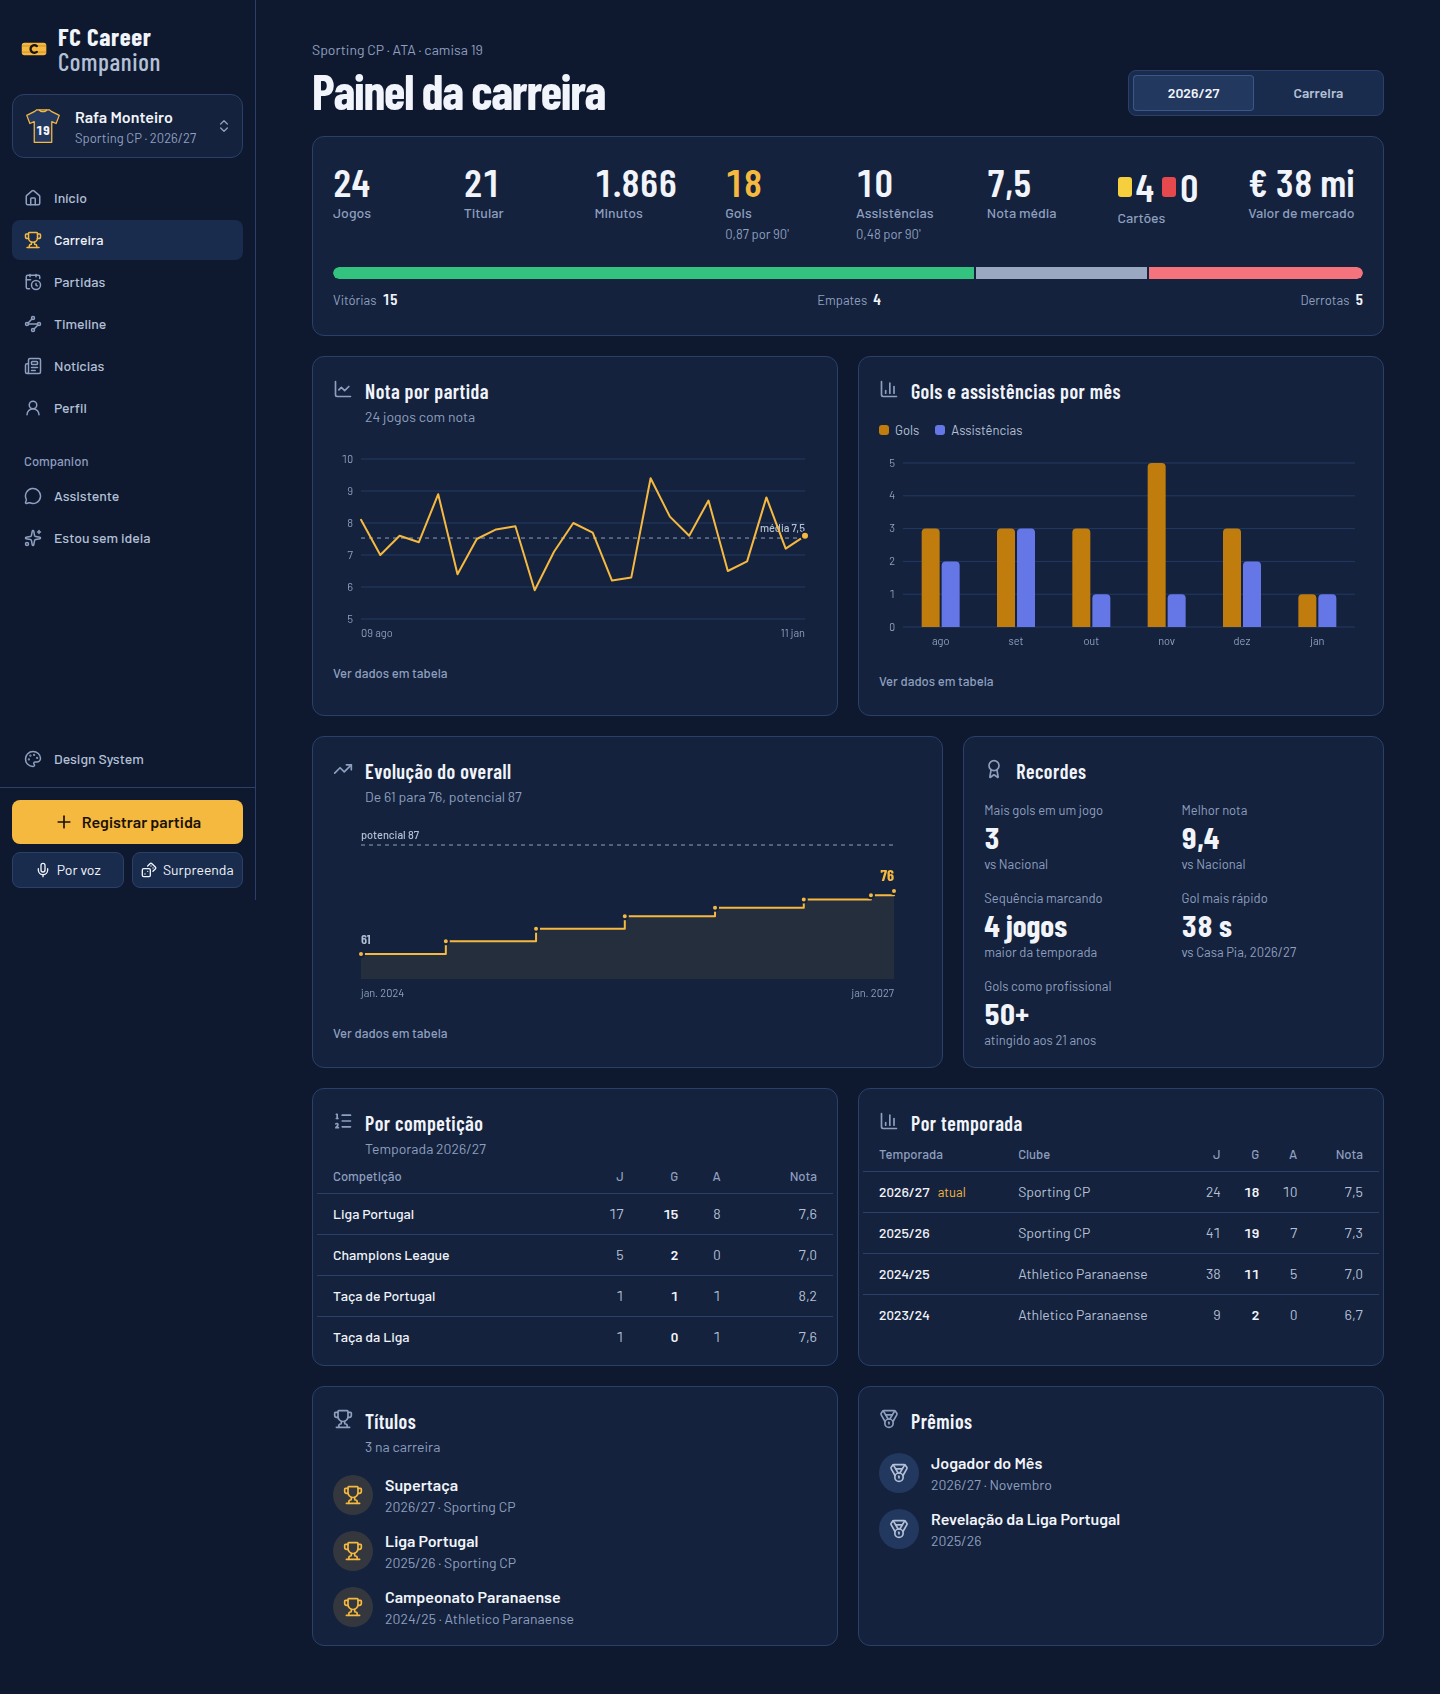
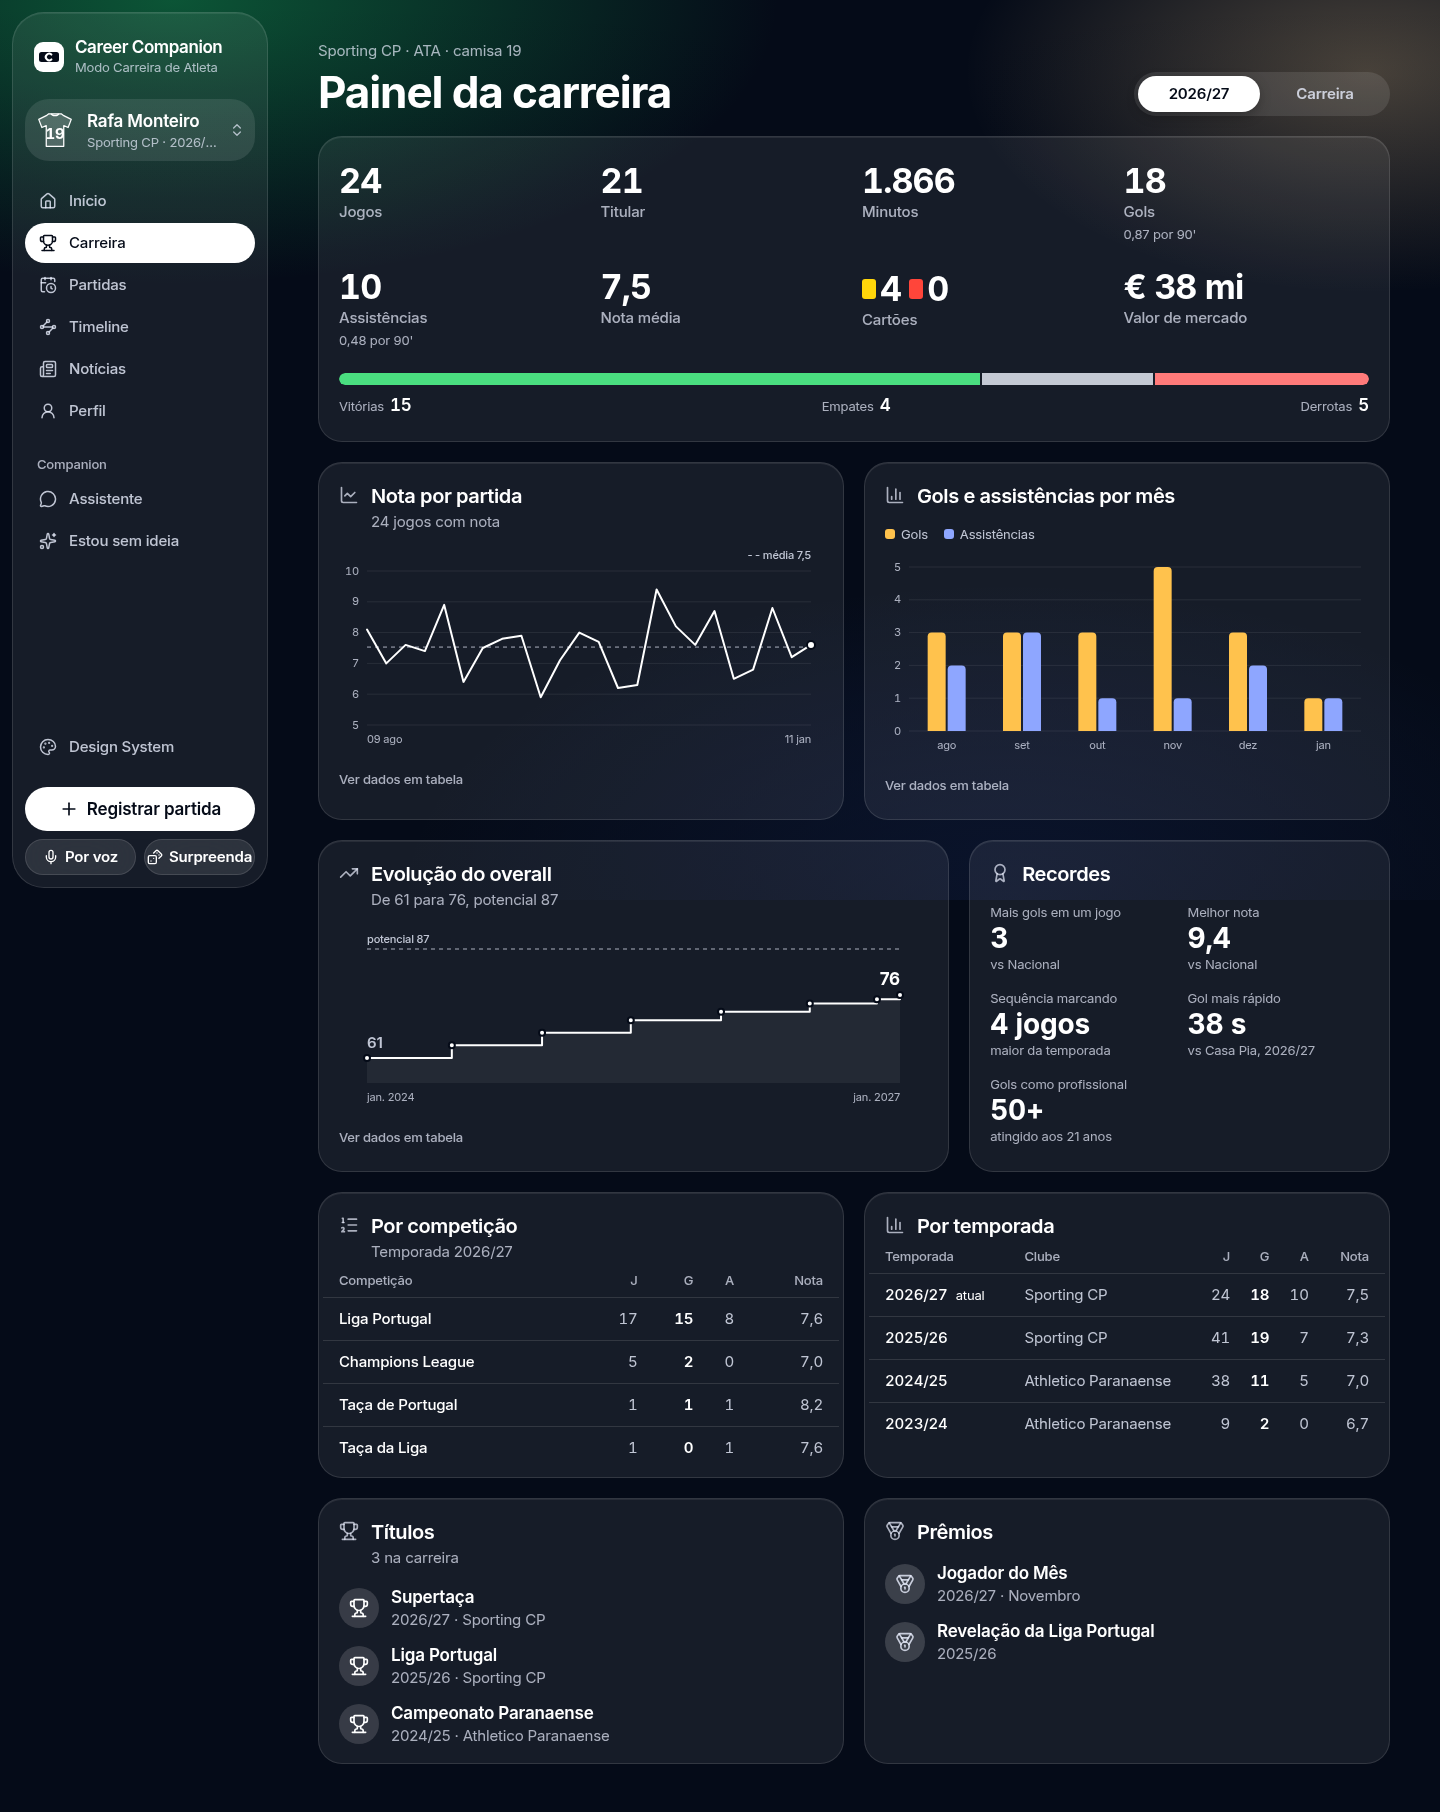
docs: document the Glass design system and refresh screenshots
Claude-Session: https://claude.ai/code/session_01Ddo3DCJ9uNYnjb1f97aXrb

diff --git a/docs/design-system.md b/docs/design-system.md
@@ -1,38 +1,55 @@
-# Design System — Floodlit
+# Design System — Glass
 
-Catálogo vivo em **`/design-system`**. Tokens em `src/app/globals.css`; componentes em `src/components/ui`, `football` e `charts`.
+Catálogo vivo em **`/design-system`**. Tokens em `src/app/globals.css`; componentes em `src/components/ui`, `football`, `charts` e `motion`.
+
+> Substitui a primeira versão ("Floodlit", Barlow + dourado), reprovada na avaliação do protótipo. A direção escolhida foi a **C · Vidro** do canvas de protótipos.
 
 ## Direção
 
-Noite de jogo sob refletores. A carreira é o centro: um único acento dourado marca o que é **conquista e ação** (OVR, botão principal, gols, títulos). O resto é silencioso para que números e nomes falem.
-
-Processo de definição: consultas à skill **UI/UX Pro Max** (par tipográfico Sports/Fitness — Barlow Condensed + Barlow; estilo data-dense para painéis), revisão contra os "defaults genéricos" da skill **frontend-design** (evitamos fundo quase-preto com verde-ácido, kit SaaS de cards idênticos, rótulos em caixa-alta), regras da **Bencium UX** (hierarquia por superfície e tipografia, não por sombra) e validação de cores de gráfico com a skill **dataviz**.
+Vidro fosco sobre luzes de estádio, com a linguagem visual da Apple: tipografia de sistema, cantos generosos, branco como ação principal e cor apenas onde carrega significado. A luz ambiente é tingida pela **cor do clube da carreira ativa**, então cada carreira tem a sua atmosfera.
 
 ## Cor
 
-| Token                   | Valor                             | Uso                                                                     |
-| ----------------------- | --------------------------------- | ----------------------------------------------------------------------- |
-| `bg`                    | `#0e1930`                         | Fundo                                                                   |
-| `surface-1/2/3`         | `#14223d` / `#1a2c4d` / `#22385f` | Card / controle / hover-selecionado                                     |
-| `line`, `line-strong`   | `#2a4069`, `#3b5687`              | Bordas                                                                  |
-| `fg`, `fg-2`, `fg-3`    | `#f1f4fa`, `#b4c0d6`, `#8e9fbf`   | Texto (14,4 / 8,6 / 5,9 : 1 sobre surface-1)                            |
-| `accent`                | `#f6b940`                         | Ação principal, OVR, conquista (texto escuro sobre ele: 10,5:1)         |
-| `win` / `draw` / `loss` | `#34c27f` / `#9aa8c2` / `#f4737c` | Resultado — sempre com letra V/E/D                                      |
-| `ai`                    | `#8fa2ff`                         | Companion de IA e voz                                                   |
-| `chart-1` / `chart-2`   | `#c07c0c` / `#6577e6`             | Séries de gols / assistências (validadas: CVD ΔE ≥ 27, contraste ≥ 3:1) |
+| Token                   | Valor                             | Uso                                                                             |
+| ----------------------- | --------------------------------- | ------------------------------------------------------------------------------- |
+| `bg`                    | `#050b18`                         | Fundo sólido atrás da luz ambiente                                              |
+| luz ambiente            | cor do clube + luz quente + azul  | `Backdrop` fixo; foto opcional por baixo (`src/lib/media.ts`)                   |
+| `surface-1/2/3`         | branco 7% / 10% / 16%             | Vidro: cards / controles / hover-selecionado (`.glass` aplica desfoque e borda) |
+| `sheet`                 | `#101626` a 88%                   | Modais, menus, toasts, barra de abas                                            |
+| `fg`, `fg-2`, `fg-3`    | branco 100% / 80% / 70%           | Texto                                                                           |
+| `accent`                | `#ffffff`                         | Ação principal, com texto `on-accent` (`#050b18`)                               |
+| `gold`                  | `#ffd27a`                         | Conquistas e notas de destaque                                                  |
+| `win` / `draw` / `loss` | `#4ade80` / `#c4c9d4` / `#ff7a7a` | Resultado, sempre com rótulo V/E/D                                              |
+| `ai`                    | `#aab8ff`                         | Companion de IA e voz                                                           |
+| `chart-1` / `chart-2`   | `#ffc24d` / `#8ea6ff`             | Gols / assistências                                                             |
 
-Regras: `fg-3` não é usado sobre `surface-3`; cor nunca é o único portador de significado.
+Escudos: monograma circular nas cores tradicionais do clube (só cores, nenhum escudo oficial); a cor do texto é escolhida automaticamente pela luminância para manter contraste AA.
 
 ## Tipografia
 
-Barlow Condensed (500–700) para display, placares e manchetes; Barlow (400–700) para texto. Escala 1,25 a partir de 16px: `xs 13 · sm 14 · base 16 · lg 20 · xl 25 · 2xl 31 · 3xl 39 · 4xl 49 · 5xl 61 · 6xl 95`. Números com `tabular-nums`. Rótulos em caixa normal.
+Fonte de sistema da Apple (`-apple-system`, SF Pro) com **Inter** (SIL OFL) como reserva fora do ecossistema Apple. Escala baseada nos estilos dinâmicos do iOS: `xs 13 · sm 15 · base 17 · lg 20 · xl 22 · 2xl 28 · 3xl 34 · 4xl 44 · 5xl 56 · 6xl 80`. Títulos com tracking negativo; números com `tabular-nums`.
 
-## Espaço, raio, elevação, movimento
+## Forma e profundidade
 
-- Espaço: base 4px (4/8/12/16/24/32/48).
-- Raio com hierarquia: `xs 4` badges · `sm 8` controles · `md 12` cards · `lg 20` herói/modais.
-- Elevação: cards usam borda + mudança de superfície; sombra só em camadas flutuantes (`shadow-pop`, `shadow-overlay`).
-- Movimento: 150–320ms, `ease-out-quint`. Um único momento coreografado (revelação do Surpreenda-me). `prefers-reduced-motion` zera animações.
+- Raio: `xs 8` · `sm 14` controles · `md 24` cards · `lg 32` herói/sheets; botões, chips e abas em pílula.
+- Profundidade por vidro (translucidez + desfoque + borda de 1px com reflexo no topo); sombras só em camadas flutuantes.
+
+## Movimento (`motion`)
+
+| Padrão                            | Onde                                             |
+| --------------------------------- | ------------------------------------------------ |
+| Transição de tela (fade + subida) | `app/template.tsx`                               |
+| Entrada em cascata                | `Reveal` / `RevealItem` (Início)                 |
+| Números contando                  | `AnimatedNumber` (OVR, gols, assistências, nota) |
+| Barras e linhas que se desenham   | `ProgressBar`, `Sparkline`                       |
+| Indicador de aba deslizante       | barra de abas mobile e sidebar (`layoutId`)      |
+| Orbe de voz pulsando              | registro de partida                              |
+
+Com "reduzir movimento" ativo, as entradas aparecem prontas, sem animação (`MotionConfig reducedMotion="user"` + `useReducedMotion`).
+
+## Fotos
+
+O ambiente de desenvolvimento atual não tem acesso a bancos de imagem. Os pontos de foto já existem (`MEDIA.backdrop`, `MEDIA.heroPlayer` em `src/lib/media.ts`); basta colocar arquivos licenciados em `public/media/` e registrar em `public/media/CREDITS.md`.
 
 ## Componentes
 
@@ -48,8 +65,8 @@ Barlow Condensed (500–700) para display, placares e manchetes; Barlow (400–7
 
 ## Mobile
 
-Não é o desktop encolhido: barra inferior com 4 destinos + ação central "Registrar partida", menu **Mais** em bottom sheet, barra de salvar fixa no formulário, modais viram sheets, áreas de toque ≥ 44px, `safe-area-inset` respeitado.
+Não é o desktop encolhido: barra de abas flutuante em vidro (Início, Carreira, ação central "Registrar", Timeline, Mais) com indicador deslizante, menu **Mais** em sheet, botão de salvar fixo acima da barra, modais viram sheets, áreas de toque ≥ 44px, `safe-area-inset` respeitado.
 
 ## Acessibilidade
 
-WCAG 2.2 AA verificado com axe-core em todas as telas (E2E). Link "Pular para o conteúdo", foco visível dourado, `aria-current` na navegação, resultados e forma com texto alternativo, gráficos com tabela de dados.
+WCAG 2.2 AA verificado com axe-core em todas as telas (E2E). Link "Pular para o conteúdo", foco visível branco, `aria-current` na navegação, resultados e forma com texto alternativo, gráficos com tabela de dados.

diff --git a/README.md b/README.md
@@ -64,18 +64,19 @@ Outras características: múltiplas carreiras com troca rápida, restauração d
 
 ## Stack
 
-| Camada                       | Escolha                                                    | Por quê                                                                                                                    |
-| ---------------------------- | ---------------------------------------------------------- | -------------------------------------------------------------------------------------------------------------------------- |
-| Framework                    | **Next.js 16** (App Router, Turbopack) + **React 19**      | Rotas por arquivo, server components para o shell, API routes/server actions prontas para a Fase 2 sem trocar de framework |
-| Linguagem                    | **TypeScript** `strict` + `noUncheckedIndexedAccess`       | Domínio rico (estatísticas, regras); erros pegos em compilação                                                             |
-| Estilo                       | **Tailwind CSS v4** com tokens em CSS (`@theme`)           | Tokens do Design System viram utilitários; tema trocável por variáveis CSS                                                 |
-| Acessibilidade de primitivas | **Radix UI** (Dialog, Tabs, Dropdown, Tooltip, RadioGroup) | Foco, teclado e ARIA corretos sem reinventar                                                                               |
-| Ícones                       | **Lucide** (ISC)                                           | Um único estilo de traço em todo o app                                                                                     |
-| Fontes                       | **Barlow / Barlow Condensed** via `@fontsource` (SIL OFL)  | Auto-hospedadas, sem dependência de rede no build                                                                          |
-| Validação                    | **Zod**                                                    | Mesmo schema valida UI, casos de uso e (futuramente) API                                                                   |
-| Estado (Fase 1)              | **Zustand** + `persist` (localStorage)                     | Simples, fora do React para os casos de uso; substituível pela API na Fase 2                                               |
-| Testes                       | **Vitest** + Testing Library, **Playwright**, **axe-core** | Unidade/integração rápidos; E2E desktop e mobile; auditoria WCAG automatizada                                              |
-| Qualidade                    | ESLint (flat config, limites de camada), Prettier          | Mesmas regras local e CI                                                                                                   |
+| Camada                       | Escolha                                                           | Por quê                                                                                                                    |
+| ---------------------------- | ----------------------------------------------------------------- | -------------------------------------------------------------------------------------------------------------------------- |
+| Framework                    | **Next.js 16** (App Router, Turbopack) + **React 19**             | Rotas por arquivo, server components para o shell, API routes/server actions prontas para a Fase 2 sem trocar de framework |
+| Linguagem                    | **TypeScript** `strict` + `noUncheckedIndexedAccess`              | Domínio rico (estatísticas, regras); erros pegos em compilação                                                             |
+| Estilo                       | **Tailwind CSS v4** com tokens em CSS (`@theme`)                  | Tokens do Design System viram utilitários; tema trocável por variáveis CSS                                                 |
+| Acessibilidade de primitivas | **Radix UI** (Dialog, Tabs, Dropdown, Tooltip, RadioGroup)        | Foco, teclado e ARIA corretos sem reinventar                                                                               |
+| Ícones                       | **Lucide** (ISC)                                                  | Um único estilo de traço em todo o app                                                                                     |
+| Fontes                       | Fonte de sistema da Apple + **Inter** via `@fontsource` (SIL OFL) | Visual nativo em iPhone/Mac; reserva auto-hospedada no resto                                                               |
+| Animação                     | **Motion** (`motion/react`)                                       | Transições, springs e animações de layout declarativas em React                                                            |
+| Validação                    | **Zod**                                                           | Mesmo schema valida UI, casos de uso e (futuramente) API                                                                   |
+| Estado (Fase 1)              | **Zustand** + `persist` (localStorage)                            | Simples, fora do React para os casos de uso; substituível pela API na Fase 2                                               |
+| Testes                       | **Vitest** + Testing Library, **Playwright**, **axe-core**        | Unidade/integração rápidos; E2E desktop e mobile; auditoria WCAG automatizada                                              |
+| Qualidade                    | ESLint (flat config, limites de camada), Prettier                 | Mesmas regras local e CI                                                                                                   |
 
 Decisões detalhadas em [`docs/adr`](docs/adr).
 
@@ -217,7 +218,7 @@ docs/                    # arquitetura, design system, ADRs, screenshots
 
 ## Design System
 
-Identidade **Floodlit** — noite de jogo sob refletores: azul-estádio profundo, dourado de refletor como acento único (ação, overall, conquista), verde/cinza/coral só para resultados e um azul-lavanda reservado ao companion de IA. Tipografia Barlow Condensed (placar, manchetes) + Barlow (texto). Documentação em [`docs/design-system.md`](docs/design-system.md) e ao vivo em `/design-system`.
+Identidade **Glass** — vidro fosco sobre luzes de estádio, na linguagem visual da Apple: fonte de sistema (SF Pro, com Inter de reserva), cantos generosos, branco como ação principal e a luz ambiente tingida pela cor do clube da carreira. Animações com [Motion](https://motion.dev) (transições de tela, entrada em cascata, números contando, indicador de aba deslizante), sempre respeitando "reduzir movimento". Documentação em [`docs/design-system.md`](docs/design-system.md) e ao vivo em `/design-system`.
 
 ## Fluxo de trabalho Git
 
